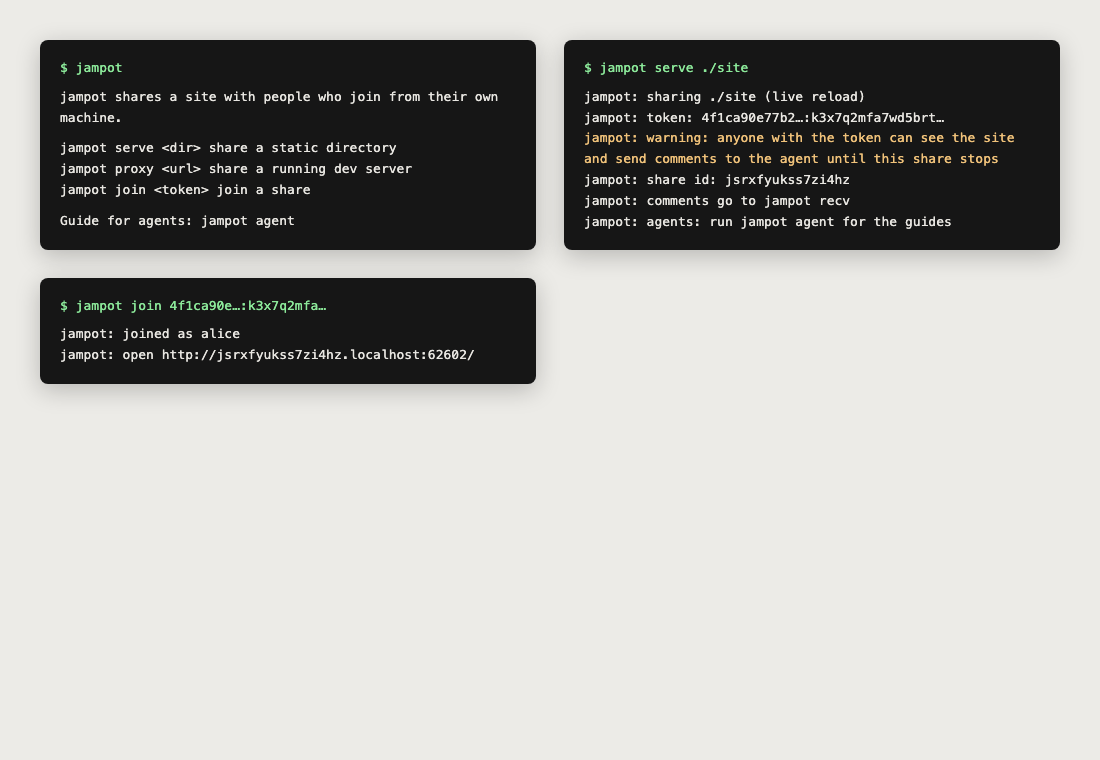
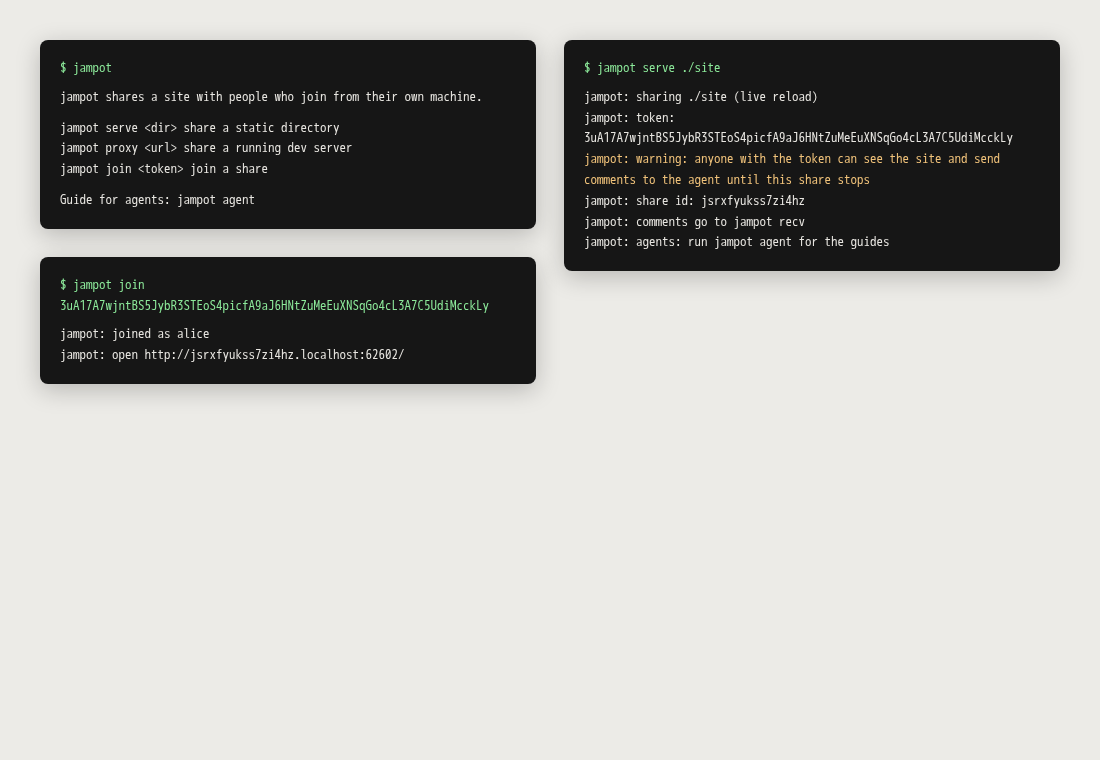
docs: drop leftovers and the old token format
The terminal mockup still showed the old key:secret token; it now shows
a base58 one, and the screenshot is regenerated. The UI spec loses a
development note about which commit did the dialog title.

Changed region(s): [[0.0309, 0.0605, 0.9891, 0.4842]]

diff --git a/docs/ui/5-terminal.html b/docs/ui/5-terminal.html
@@ -23,15 +23,15 @@ a{color:#8ce99a}a:hover{color:#b2f2bb}
 <p style="margin: 0">Guide for agents: jampot agent</p>
 </section>
 <section aria-label="jampot join" style="border-radius: 8px; background: #161616; color: #e8e6e1; box-shadow: 0 6px 24px rgb(0 0 0 / 22%); padding: 18px 20px; font-size: 13px; line-height: 1.6">
-<p style="margin: 0 0 8px; color: #8ce99a">$ jampot join 4f1ca90e…:k3x7q2mfa…</p>
+<p style="margin: 0 0 8px; color: #8ce99a; overflow-wrap: anywhere">$ jampot join 3uA17A7wjntBS5JybR3STEoS4picfA9aJ6HNtZuMeEuXNSqGo4cL3A7C5UdiMcckLy</p>
 <p style="margin: 0; white-space: pre-line">jampot: joined as alice
 jampot: open http://jsrxfyukss7zi4hz.localhost:62602/</p>
 </section>
 </div>
 <section aria-label="jampot serve" style="border-radius: 8px; background: #161616; color: #e8e6e1; box-shadow: 0 6px 24px rgb(0 0 0 / 22%); padding: 18px 20px; font-size: 13px; line-height: 1.6; align-self: start">
 <p style="margin: 0 0 8px; color: #8ce99a">$ jampot serve ./site</p>
-<p style="margin: 0; white-space: pre-line">jampot: sharing ./site (live reload)
-jampot: token: 4f1ca90e77b2…:k3x7q2mfa7wd5brt…</p>
+<p style="margin: 0; white-space: pre-line; overflow-wrap: anywhere">jampot: sharing ./site (live reload)
+jampot: token: 3uA17A7wjntBS5JybR3STEoS4picfA9aJ6HNtZuMeEuXNSqGo4cL3A7C5UdiMcckLy</p>
 <p style="margin: 0; color: #f0c27a; white-space: pre-line">jampot: warning: anyone with the token can see the site and send comments to the agent until this share stops</p>
 <p style="margin: 0; white-space: pre-line">jampot: share id: jsrxfyukss7zi4hz
 jampot: comments go to jampot recv

diff --git a/docs/ui.md b/docs/ui.md
@@ -36,7 +36,7 @@ joiner's local endpoints and the share; nothing in the site itself.
 
 ## Comment dialog
 
-- Title `Comment:` for element and page comments (done, `d4b01b4`);
+- Title `Comment:` for element and page comments;
   `Comment on agent response:` stays for replies to answers.
 
 ## Edit mode
